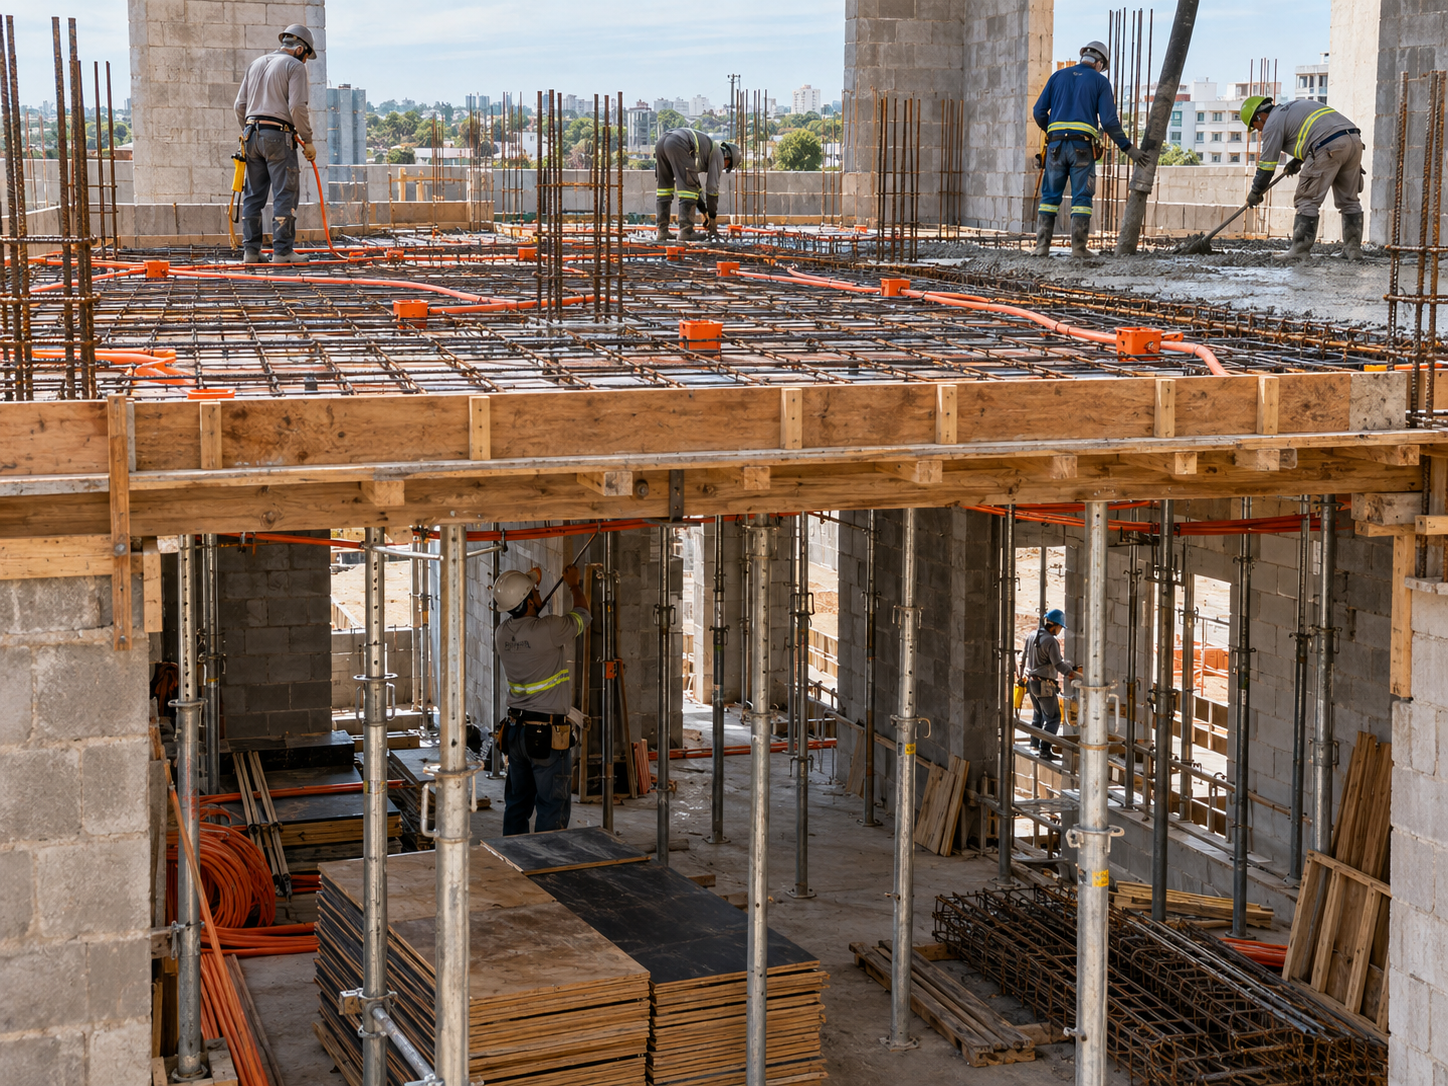
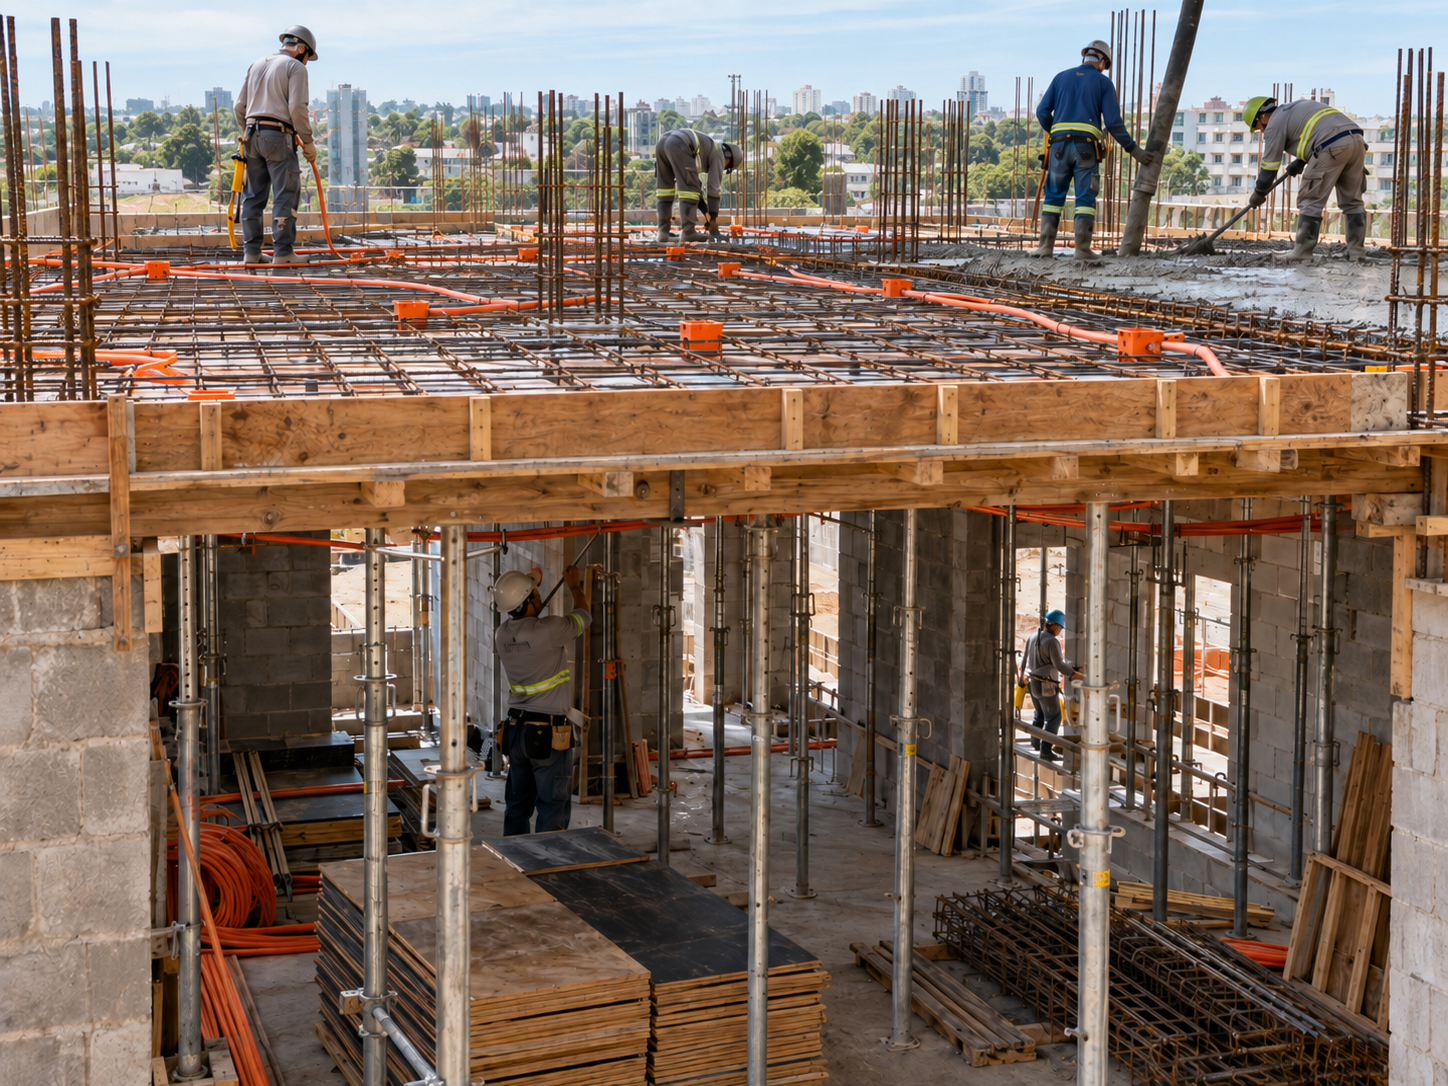
Use updated uploads images on the homepage
Replace the comparison images and switch the "menos atividades" benefit
image to the new PNG version.

diff --git a/sipihome.html b/sipihome.html
@@ -281,7 +281,7 @@ button{transition:background-color .18s ease,border-color .18s ease,color .18s e
 <div style="max-width:1280px;margin:0 auto;padding:clamp(64px,9vw,112px) clamp(20px,5vw,48px)">
 <div style="margin-bottom:clamp(36px,5vw,64px)"><p style="margin:0 0 18px;font-size:12px;font-weight:600;letter-spacing:.16em;color:#111415">ALÉM DO CICLO</p><h2 style="margin:0;font-family:'Space Grotesk',sans-serif;font-weight:600;font-size:clamp(30px,3.4vw,46px);line-height:1.08;letter-spacing:-.015em;max-width:22ch;text-wrap:pretty;max-width:26ch">Menos dependências no canteiro. Mais previsibilidade para a execução.</h2></div>
 <div id="ben-track" class="ben" role="region" aria-label="Benefícios operacionais" onScroll="{{ benScroll }}" style="gap:clamp(40px,5vw,64px) clamp(28px,3vw,40px)">
-<article style="min-width:0;display:flex;flex-direction:column;gap:22px"><div style="position:relative;width:100%;aspect-ratio:4/3;border-radius:4px;overflow:hidden;background:#2B3134;min-width:0"><img src="assets/beneficio-menos-atividades.jpeg" alt="Equipe reduzida posicionando peça de laje industrializada sobre a alvenaria estrutural." width="1024" height="765" loading="lazy" decoding="async" style="position:absolute;inset:0;width:100%;height:100%;object-fit:cover;display:block"></div><div style="display:grid;gap:10px;max-width:50ch"><p aria-hidden="true" style="margin:0;font:600 13px 'Space Grotesk',sans-serif;letter-spacing:.1em;color:#111415;display:flex;gap:10px;align-items:center"><span style="width:18px;height:3px;background:#FF7900;display:block"></span>01</p><h3 style="margin:0;font-family:'Space Grotesk',sans-serif;font-weight:600;font-size:clamp(20px,1.8vw,24px);line-height:1.15;text-wrap:pretty">Menos atividades simultâneas</h3><p style="margin:0;font-size:16px;line-height:1.55;color:#565E62;text-wrap:pretty">Parte das atividades estruturais e elétricas é antecipada para a fabricação, reduzindo a quantidade de operações concentradas na etapa da laje.</p></div></article>
+<article style="min-width:0;display:flex;flex-direction:column;gap:22px"><div style="position:relative;width:100%;aspect-ratio:4/3;border-radius:4px;overflow:hidden;background:#2B3134;min-width:0"><img src="assets/beneficio-menos-atividades.png" alt="Equipe reduzida posicionando peça de laje industrializada sobre a alvenaria estrutural." width="1448" height="1086" loading="lazy" decoding="async" style="position:absolute;inset:0;width:100%;height:100%;object-fit:cover;display:block"></div><div style="display:grid;gap:10px;max-width:50ch"><p aria-hidden="true" style="margin:0;font:600 13px 'Space Grotesk',sans-serif;letter-spacing:.1em;color:#111415;display:flex;gap:10px;align-items:center"><span style="width:18px;height:3px;background:#FF7900;display:block"></span>01</p><h3 style="margin:0;font-family:'Space Grotesk',sans-serif;font-weight:600;font-size:clamp(20px,1.8vw,24px);line-height:1.15;text-wrap:pretty">Menos atividades simultâneas</h3><p style="margin:0;font-size:16px;line-height:1.55;color:#565E62;text-wrap:pretty">Parte das atividades estruturais e elétricas é antecipada para a fabricação, reduzindo a quantidade de operações concentradas na etapa da laje.</p></div></article>
 <article style="min-width:0;display:flex;flex-direction:column;gap:22px"><div style="position:relative;width:100%;aspect-ratio:4/3;border-radius:4px;overflow:hidden;background:#2B3134;min-width:0"><img src="assets/beneficio-dependencia-operacional.png" alt="Peças industrializadas estocadas, caminhão de transporte e laje sendo içada no edifício em construção." width="1448" height="1086" loading="lazy" decoding="async" style="position:absolute;inset:0;width:100%;height:100%;object-fit:cover;display:block"></div><div style="display:grid;gap:10px;max-width:50ch"><p aria-hidden="true" style="margin:0;font:600 13px 'Space Grotesk',sans-serif;letter-spacing:.1em;color:#111415;display:flex;gap:10px;align-items:center"><span style="width:18px;height:3px;background:#FF7900;display:block"></span>02</p><h3 style="margin:0;font-family:'Space Grotesk',sans-serif;font-weight:600;font-size:clamp(20px,1.8vw,24px);line-height:1.15;text-wrap:pretty">Menor dependência operacional</h3><p style="margin:0;font-size:16px;line-height:1.55;color:#565E62;text-wrap:pretty">A industrialização reduz a dependência de diferentes equipes atuando simultaneamente na preparação da laje.</p></div></article>
 <article style="min-width:0;display:flex;flex-direction:column;gap:22px"><div style="position:relative;width:100%;aspect-ratio:4/3;border-radius:4px;overflow:hidden;background:#2B3134;min-width:0"><img src="assets/beneficio-escoramento.png" alt="Pavimento com lajes montadas, escoramento metálico pontual e circulação livre para outras atividades." width="1448" height="1086" loading="lazy" decoding="async" style="position:absolute;inset:0;width:100%;height:100%;object-fit:cover;display:block"></div><div style="display:grid;gap:10px;max-width:50ch"><p aria-hidden="true" style="margin:0;font:600 13px 'Space Grotesk',sans-serif;letter-spacing:.1em;color:#111415;display:flex;gap:10px;align-items:center"><span style="width:18px;height:3px;background:#FF7900;display:block"></span>03</p><h3 style="margin:0;font-family:'Space Grotesk',sans-serif;font-weight:600;font-size:clamp(20px,1.8vw,24px);line-height:1.15;text-wrap:pretty">Mais espaço para a continuidade da obra</h3><p style="margin:0;font-size:16px;line-height:1.55;color:#565E62;text-wrap:pretty">A menor necessidade de escoramento, conforme projeto, reduz interferências físicas e pode facilitar a continuidade de outras atividades no empreendimento.</p></div></article>
 <article style="min-width:0;display:flex;flex-direction:column;gap:22px"><div style="position:relative;width:100%;aspect-ratio:4/3;border-radius:4px;overflow:hidden;background:#2B3134;min-width:0"><img src="assets/beneficio-eletrica-incorporada.jpeg" alt="Laje industrializada em corte mostrando eletrodutos e caixas incorporados ao concreto." width="2213" height="1646" loading="lazy" decoding="async" style="position:absolute;inset:0;width:100%;height:100%;object-fit:cover;display:block"></div><div style="display:grid;gap:10px;max-width:50ch"><p aria-hidden="true" style="margin:0;font:600 13px 'Space Grotesk',sans-serif;letter-spacing:.1em;color:#111415;display:flex;gap:10px;align-items:center"><span style="width:18px;height:3px;background:#FF7900;display:block"></span>04</p><h3 style="margin:0;font-family:'Space Grotesk',sans-serif;font-weight:600;font-size:clamp(20px,1.8vw,24px);line-height:1.15;text-wrap:pretty">Infraestrutura elétrica incorporada</h3><p style="margin:0;font-size:16px;line-height:1.55;color:#565E62;text-wrap:pretty">Eletrodutos e caixas são incorporados às peças durante a fabricação, reduzindo atividades de preparação elétrica executadas na etapa da laje.</p></div></article>
